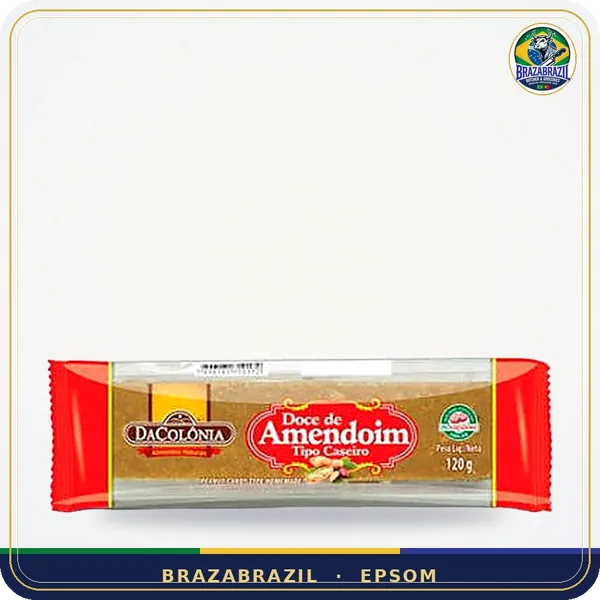
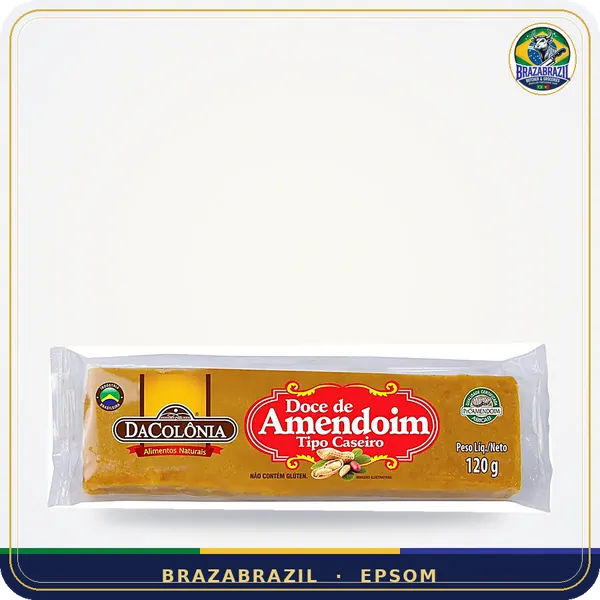
Chás Dom Duarte, molhos e cremes de pimenta, bolachas Cuétara, cream cracker, mini tostas, concentrado de tomate, pequi fatiado, cuscuz Sinhá; doces de abóbora e amendoim
Claude-Session: https://claude.ai/code/session_01DDRaaWaovpG94AFaRVuRbM

Changed region(s): [[0.06, 0.57, 0.93, 0.87]]

diff --git a/js/groceries.js b/js/groceries.js
@@ -208,7 +208,7 @@ window.GROUPS.groceries = [
   G("flocao", "Flocão de Milho · 500 g", "graos",
     { en: "Corn flakes flour for cuscuz", pt: "Farinha de milho flocada para cuscuz", es: "Harina de maíz en copos para cuscuz" },
     { en: "The base for a proper cuscuz nordestino.", pt: "A base do cuscuz nordestino.", es: "La base del cuscuz nordestino." },
-    [["flocao-sinha", "Sinhá", 1.99, "flocao-sinha"], ["kimilho", "Kimilho Yoki", 2.99, "kimilho"]], { tags: ["gf"] });
+    [["flocao-sinha", "Sinhá Flocão", 1.99, "flocao-sinha"], ["cuscuz-sinha", "Sinhá Cuscuz tradicional", 1.99, "cuscuz-sinha"], ["kimilho", "Kimilho Yoki", 2.99, "kimilho"]], { tags: ["gf"] });
   G("fuba", "Fubá Yoki · 500 g", "graos",
     { en: "Cornmeal", pt: "Fubá", es: "Harina de maíz" },
     { en: "Mimoso for bolo de fubá and angu, pré-cozido for quick polenta.", pt: "Mimoso para bolo de fubá e angu; pré-cozido para polenta rápida.", es: "Para bizcocho de maíz y polenta." },
@@ -282,10 +282,40 @@ window.GROUPS.groceries = [
   S("erva-mate", "Erva-Mate Barão de Cotegipe · 1 kg", "matinais", 3.99, "erva-mate",
     { en: "Yerba mate for chimarrão", pt: "Erva-mate para chimarrão", es: "Yerba mate" },
     { en: "Native yerba mate, vacuum-packed — for chimarrão and tereré.", pt: "Erva-mate nativa, embalada a vácuo — para chimarrão e tereré.", es: "Yerba mate nativa al vacío." }, { tags: ["vegan"] });
-  S("cha-cidreira", "Chá de Cidreira Dom Duarte · 20 saquetas", "matinais", 2.60, "cha-cidreira",
-    { en: "Lemon balm tea", pt: "Chá de erva-cidreira", es: "Infusión de melisa" },
-    { en: "Calming lemon balm infusion.", pt: "Infusão calmante de erva-cidreira.", es: "Infusión relajante de melisa." }, { tags: ["portuguese", "vegan"] });
-  const SOON = new Set(["muenster", "llanero", "gota-alho"]);
+  G("chas-dd", "Chás Dom Duarte · 20 saquetas", "matinais",
+    { en: "Herbal teas · 20 bags", pt: "Chás e infusões · 20 saquetas", es: "Infusiones · 20 bolsitas" },
+    { en: "Portuguese herbal infusions — pick your blend.", pt: "Infusões portuguesas — escolha a sua.", es: "Infusiones portuguesas." },
+    [["cha-camomila", "Camomila", 2.60, "cha-camomila"], ["cha-cidreira", "Cidreira", 2.60, "cha-cidreira"],
+     ["cha-detox", "Detox", 2.85, "cha-camomila"], ["cha-emagrecimento", "Emagrecimento", 3.29, "cha-emagrecimento"]], { tags: ["portuguese", "vegan"] });
+  /* ---------- remessa chás / molhos / biscoitos ---------- */
+  G("molhos-dd", "Molhos Dom Duarte", "molhos",
+    { en: "Soy & Worcestershire sauce", pt: "Molho de soja e molho inglês", es: "Salsa de soja e inglesa" },
+    { en: "For marinades, stir-fries and steaks.", pt: "Para marinadas, refogados e bifes.", es: "Para adobos y salteados." },
+    [["dd-ingles", "Inglês", 2.59, "dd-ingles"], ["dd-soja", "Soja", 3.50, "dd-soja"]], { tags: ["portuguese"] });
+  G("cremes-pimenta", "Creme de Pimenta · 200 ml", "molhos",
+    { en: "Creamy Brazilian chilli sauces", pt: "Cremes de pimenta", es: "Cremas de ají" },
+    { en: "Creamy, spicy and full of flavour — perfect on churrasco, pastel and rice.", pt: "Cremosos e picantes — perfeitos no churrasco, pastel e arroz.", es: "Cremosas y picantes." },
+    [["creme-calabresa", "Calabresa Brasileiríssimo", 6.50, "creme-calabresa"], ["creme-pequi", "Pequi Aroma D’Minas", 6.50, "creme-pequi"], ["creme-verde", "Pimenta verde com ervas Aroma D’Minas", 6.50, "creme-verde"]]);
+  S("creme-cebola", "Creme de Cebola Zaeli · 60 g", "molhos", 0, "creme-cebola",
+    { en: "Onion soup & dip mix", pt: "Creme de cebola", es: "Crema de cebolla" },
+    { en: "For dips, soups and strogonoff.", pt: "Para patês, sopas e strogonoff.", es: "Para salsas y sopas." });
+  S("mutti", "Concentrado de Tomate Mutti · bisnaga", "geral", 1.50, "mutti",
+    { en: "Double tomato concentrate · tube", pt: "Extrato de tomate duplo", "pt-PT": "Concentrado de tomate", es: "Concentrado de tomate" },
+    { en: "100% Italian tomatoes for sauces and stews.", pt: "Tomates 100% italianos para molhos e ensopados.", es: "Tomates 100% italianos." }, { tags: ["vegan"] });
+  S("pequi-fatiado", "Pequi Fatiado D’Horta · 370 g", "geral", 6.99, "pequi-fatiado",
+    { en: "Sliced pequi in brine", pt: "Pequi fatiado em conserva", es: "Pequi en conserva" },
+    { en: "For arroz com pequi and frango com pequi.", pt: "Para arroz e frango com pequi.", es: "Para arroz con pequi." });
+  G("bolacha-cuetara", "Bolacha Cuétara", "matinais",
+    { en: "Portuguese biscuits", pt: "Bolacha portuguesa", es: "Galletas Cuétara" },
+    { en: "The classic biscuit to dunk in milk or coffee.", pt: "A bolacha clássica para molhar no leite ou no café.", es: "La galleta clásica para mojar." },
+    [["bolacha-oro", "Oro", 3.80, "bolacha-maria"], ["bolacha-maria", "Maria", 3.90, "bolacha-maria"]], { tags: ["portuguese"] });
+  S("cream-cracker", "Biscoito Cream Cracker Renata · 360 g", "matinais", 2.18, "cream-cracker",
+    { en: "Cream crackers", pt: "Biscoito água e sal", es: "Galletas saladas" },
+    { en: "Crunchy crackers for butter, requeijão and soups.", pt: "Crocantes, para manteiga, requeijão e sopas.", es: "Crujientes, para untar." });
+  S("diatosta", "Mini Tostas Diatosta Mini Grill", "matinais", 3.49, "diatosta",
+    { en: "Mini toasts", pt: "Mini torradas", es: "Mini tostadas" },
+    { en: "Crunchy mini toasts for breakfast and snacks.", pt: "Torradinhas crocantes para o café e petiscos.", es: "Tostaditas crujientes." }, { tags: ["portuguese", "vegan"] });
+  const SOON = new Set(["muenster", "llanero", "gota-alho", "creme-cebola"]);
   out.forEach(p => { if (SOON.has(p.id)) { p.available = false; p.soon = true; } });
   const order = window.GROUPS.groceries.map(g => g.id);
   out.sort((a, b) => order.indexOf(a.group) - order.indexOf(b.group) || a.price - b.price || a.name.localeCompare(b.name));

diff --git a/js/candy.js b/js/candy.js
@@ -51,6 +51,12 @@ window.GROUPS.candy = [
     { en: "Milk caramel spread (dulce de leche)", pt: "Doce de leite cremoso", es: "Dulce de leche" },
     { en: "Creamy doce de leite — on toast, in cakes or straight from the spoon.", pt: "Doce de leite cremoso — no pão, no bolo ou de colher.", es: "Dulce de leche cremoso." },
     [["dl-ipanema", "Ipanema", 4.99, "dl-ipanema"], ["dl-uai", "Uai Delícias · 300 g", 6.75, "dl-uai"], ["dl-gaucho", "Don Gaucho", 7.99, "dl-gaucho"]], { tags: ["gf"] });
+  S("doce-amendoim", "Doce de Amendoim DaColônia · 120 g", "brasil", 1.50, "doce-amendoim",
+    { en: "Peanut fudge bar", pt: "Doce de amendoim caseiro", es: "Dulce de cacahuete" },
+    { en: "Homestyle peanut sweet bar.", pt: "Doce de amendoim tipo caseiro.", es: "Dulce de cacahuete casero." }, { tags: ["gf"] });
+  S("doce-abobora", "Doce de Abóbora com Coco Duas Irmãs · 400 g", "brasil", 7.50, "doce-abobora",
+    { en: "Pumpkin & coconut sweet", pt: "Doce de abóbora cremoso com coco", es: "Dulce de calabaza con coco" },
+    { en: "Creamy pumpkin and coconut — a grandma’s classic.", pt: "Cremoso, de abóbora com coco — clássico da vó.", es: "Dulce cremoso de calabaza." }, { tags: ["gf"] });
   G("goiabada-predilecta", "Goiabada Predilecta", "brasil",
     { en: "Guava paste", pt: "Goiabada", es: "Dulce de guayaba" },
     { en: "Sweet guava paste — try it with cheese for a ‘Romeu e Julieta’.", pt: "Goiabada de verdade — com queijo vira Romeu e Julieta.", es: "Dulce de guayaba — con queso es el clásico ‘Romeu e Julieta’." },
